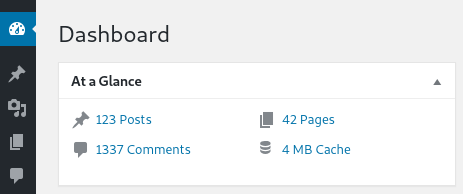
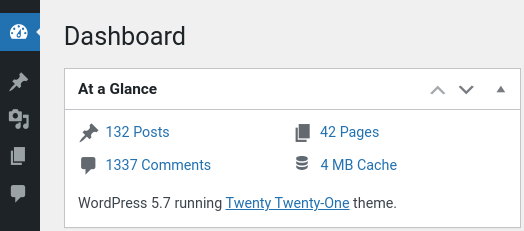
Release 2.3.1, rewrite changelog for 2.3.0, WP 5.7 compatibility (#195)
* update deployment branches from master to stable/develop
* prepare release 2.3.1
* update version and stable tag
* CHANGELOG++
* README++
* Update screenshot of settings page
* bump WP compatibility to 5.7 + updated screenshots

diff --git a/cachify.php b/cachify.php
@@ -7,7 +7,7 @@
  * Plugin URI:  https://cachify.pluginkollektiv.org
  * License:     GPLv2 or later
  * License URI: http://www.gnu.org/licenses/gpl-2.0.html
- * Version:     2.3.0
+ * Version:     2.3.1
  * Text Domain: cachify
  *
  * @package Cachify

diff --git a/CHANGELOG.md b/CHANGELOG.md
@@ -1,21 +1,28 @@
 # Changelog
 All notable changes to this project will be documented in this file. This project adheres to [Semantic Versioning](http://semver.org/).
 
-## [2.3.1]
-* Fix: clean up unused parameter evaluation after publishing a post to prevent PHP notice
+## 2.3.1
+* Fix: clean up unused parameter evaluation after publishing a post to prevent PHP notice (#187) (#188)
+* Fix: correct minor spelling mistakes (#193, props timse201)
+* Fix: update support links (#194, props timse201)
 
-## [2.3.0]
-* New: WP-CLI integration, see #165, props derweili
+## 2.3.0
+* New: WP-CLI integration (#165, props derweili)
 * New: `cachify_flush_cache_hooks` filter added to modify all hooks that flush the cache
 * New: Flush cache when a user is created / updated / deleted
-* New: Flush cache when a term is created / updated / deleted, see #169, props derweili
-* New: Cache behavior after post modification is now configurable in plugin settings
-* Enhance: Cache exceptions/User-Agents translation, see #52, props timse201
-* Enhance: Readme FAQ, see #51, props timse201
-* Enhance: sizeable exclusion boxes + placeholder, see #53, props timse201
-* Enhance: FAQ and Support links, see #55, props timse201
+* New: Flush cache when a term is created / updated / deleted (#169, props derweili)
+* New: Cache behavior after post modification is now configurable in plugin settings (#176)
+* Enhance: Cache exceptions/User-Agents translation (#52, props timse201)
+* Enhance: Readme FAQ (#51, props timse201)
+* Enhance: sizeable exclusion boxes + placeholder (#53, props timse201)
+* Enhance: FAQ and Support links (#55, props timse201)
 * Enhance: Add text caption to "flush cache" button
-* Security: Tabnabbing prevention, see #55, props timse201
+* Enhance: Icon font converted to SVG (#64)
+* Enhance: Improved HDD cache invalidation for hierarchical post types (#71, props Syberspace)
+* Enhance: Unified and shortened HTML signature across all caching methods (#108) (#109)
+* Security: Tabnabbing prevention (#55, props timse201)
+* Maintenance: Tested up to WordPress 5.4
+
 
 ## 2.2.4
 * Fixes caching for mixed HTTPS and HTTP setups
